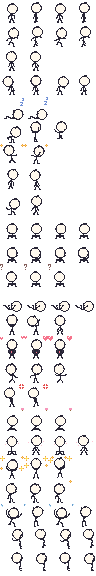
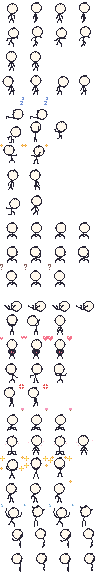
fix(art): 흐물이's limbs end as plain lines (no hand dots or foot stubs)
Panic arms a little longer so the raised arms still reach above the head; babies and
kinders spread their sitting legs a bit wider and the sitting hip sits a little higher so
the pixel art keeps its size without the old foot stubs.

diff --git a/tools/draw_heumul.py b/tools/draw_heumul.py
@@ -89,13 +89,9 @@ class Fig:
         self.items.append(("line", pts))
 
     def limb(self, p0, p1, b1, b2=None, end=None):
-        """팔다리 한 짝: 곡선 + 끝에 손(end="hand") / 발(end=±1: 발끝 방향)."""
+        """팔다리 한 짝: 곡선만 (사용자: 손발 점은 빼고 선으로만). end는 예전 손/발 표시 자리 — 그리지 않는다."""
         pts = hose(p0, p1, b1, b2)
         self.items.append(("line", pts))
-        if end == "hand":
-            self.items.append(("dot", (p1, 2.1)))
-        elif end is not None:
-            self.foot(p1, end)
         return pts
 
     def foot(self, p, toward):
@@ -133,20 +129,7 @@ class Fig:
                     ops.append(([L(data, W)], PX_INK))
                 else:
                     parts.append(Part([L(data, W)], INK, grow=0, sharp=True))
-            elif kind == "dot":
-                (x, y), r = data
-                if pixel:
-                    parts.append(Part([L([(x, y), (x, y)], 0.3)], INK, grow=0, sharp=True))
-                    ops.append(([L([(x, y), (x, y)], W)], PX_INK))
-                else:
-                    parts.append(Part([C(x, y, r)], INK, grow=0, sharp=True))
-            elif kind == "foot":
-                a, b = data
-                if pixel:
-                    parts.append(Part([L([a, b], 0.3)], INK, grow=0, sharp=True))
-                    ops.append(([L([a, b], W)], PX_INK))
-                else:
-                    parts.append(Part([L([a, b], 2.6)], INK, grow=0, sharp=True))
+            # 손 점("dot")·발끝("foot")은 그리지 않는다 — 사용자: 팔다리는 선으로만
         parts += [h() for h in held]
         return dp.compose(parts, ops, list(fx))
 
@@ -419,10 +402,12 @@ def hm_land(sp, i):
 # ---- 앞모습 ----
 def _front_sit(f, *, arms, lean=0.0, sbend=0.0, sbend2=None, head_tilt=0.0, knees=1.0, front_arms=None):
     """바닥에 털썩 앉은 앞모습: 엉덩이가 바닥, 무릎을 양옆으로 세운 다리 (발은 바닥)."""
-    hip = (64, FLOOR - 5)
+    hip = (64, FLOOR - 8)
     kk = leg_k()
     for s in (-1, 1):
-        f.limb(hip, (64 + s * 25 * kk, FLOOR - 2), s * 0.95 * knees, s * 0.55 * knees, end=0.5 * s)
+        # 아기·유아는 몸이 작아 발끝 없이 앉으면 폭이 좁다 — 조금 더 벌린다
+        spread = 28 if dp._ST["lvl"] <= 1 else 25
+        f.limb(hip, (64 + s * spread * kk, FLOOR - 0.5), s * 0.95 * knees, s * 0.55 * knees, end=0.5 * s)
     return stand(f, hip=hip, lean=lean, sbend=sbend, sbend2=sbend2, head_tilt=head_tilt, arms=arms, side=False, front_arms=front_arms)
 
 
@@ -589,7 +574,7 @@ def hm_panic(sp, i):
         legs[1] = ((hip[0] - 16 * k, hip[1] + 18 * k), -0.4, 0.3)
     w = wig(i)
     s = hm()
-    r = 1.35 * max(1.0, 1.75 * s["hr"] / s["arm"])  # 큰 머리(아기)도 손이 머리 위로
+    r = 1.45 * max(1.0, 1.75 * s["hr"] / s["arm"])  # 큰 머리(아기)도 팔 끝이 머리 위로 (손 점이 없으니 조금 더 길게)
     arms = [(-155 + 6 * w, r, -100, 0.2 * w), (128 - 6 * w, r, 100, -0.22 * w)]
     stand(f, hip=hip, lean=16, sbend=0.1, sbend2=-0.04, head_tilt=10, arms=arms, legs=legs, front_arms=[])
     fx = dp.speed_fx(2, (74, 88, 102), 12, [0, -3, 0, -3][i]) + dp.sweat_fx([26, 24, 26, 24][i], [46, 42, 46, 42][i])

diff --git a/tools/test_draw_heumul.py b/tools/test_draw_heumul.py
@@ -132,13 +132,13 @@ def head_box(im):
 
 @pytest.mark.parametrize("st", STAGES)
 def test_panic_throws_both_arms_up_above_the_head(out, st):
-    """만세: 머리 꼭대기보다 높은 잉크가 머리 양옆에 (두 손)."""
+    """만세: 머리 꼭대기 쪽 높이에 잉크가 머리 양옆에 (두 팔 끝 — 손 점 없이 선으로만, 사용자 요청)."""
     for i in range(4):
         im = frame(out, st, "panic", i)
         x0, y0, x1, y1 = head_box(im)
         ink = near(im, hm.INK, 40)
         above = ink[: y0 + (y1 - y0) // 3]
-        assert above[:, : (x0 + x1) // 2].sum() > 6 and above[:, (x0 + x1) // 2:].sum() > 6, (st, i)
+        assert above[:, : (x0 + x1) // 2].sum() > 3 and above[:, (x0 + x1) // 2:].sum() > 3, (st, i)
 
 
 def test_baby_has_a_bigger_head_and_the_adult_is_lankier(out):
@@ -179,3 +179,10 @@ def test_pixel_limbs_are_one_dot_lines():
                 run = run + 1 if v else 0
                 runs.append(run)
             assert max(runs) <= 2, (st, y, ink[y].astype(int).tolist())
+
+
+def test_limbs_end_as_plain_lines_without_hand_or_foot_dots():
+    """사용자: 팔다리 끝의 손발 점은 빼고 선으로만 — 그리기 목록에 손 점·발끝이 남아도 그리지 않는다."""
+    src = (Path(__file__).resolve().parent / "draw_heumul.py").read_text(encoding="utf-8")
+    render = src[src.index("    def render(self"):src.index("def stand(")]
+    assert 'kind == "dot"' not in render and 'kind == "foot"' not in render
